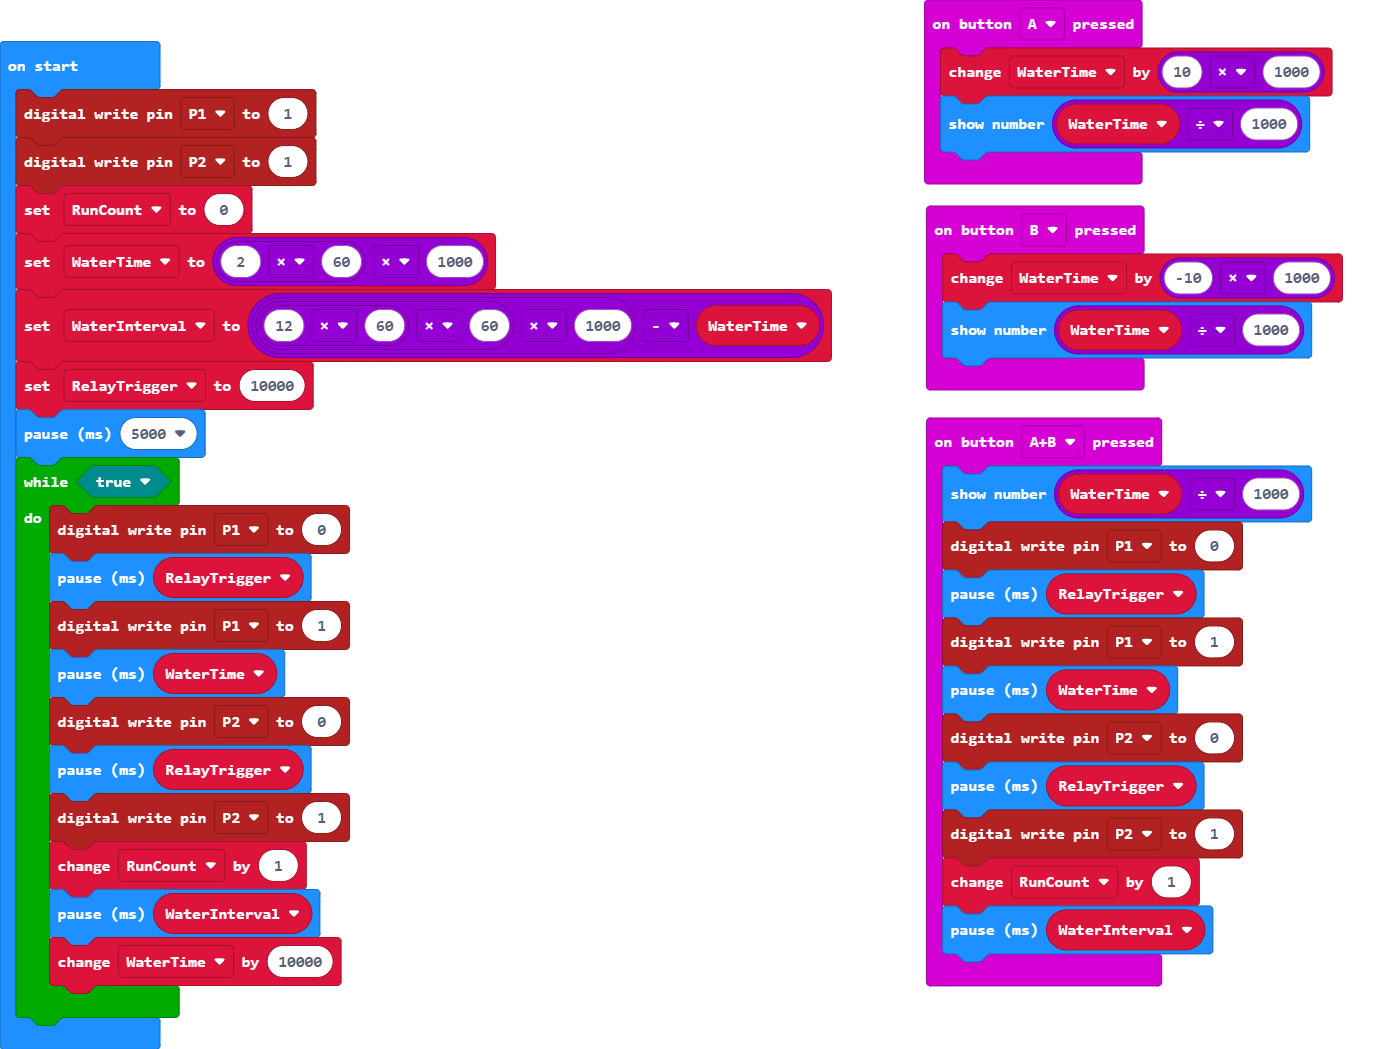
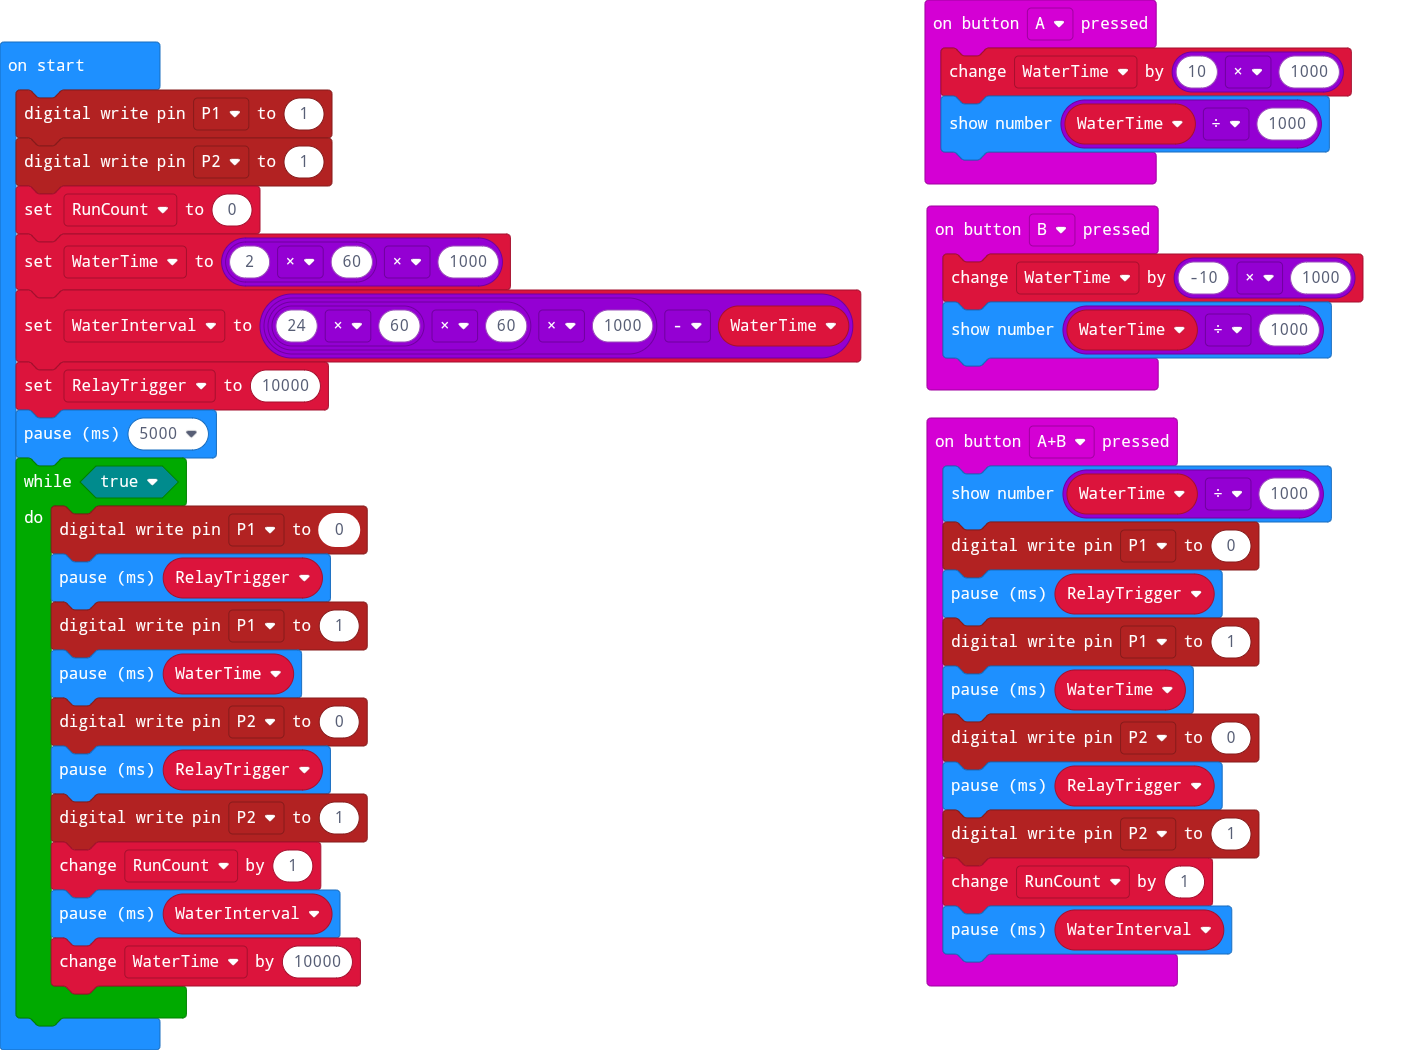
Update main.blocks, main.ts

Changed region(s): [[0.0, 0.0305, 0.6169, 0.9762], [0.6478, 0.0, 0.9562, 0.9457], [0.0925, 0.9762, 0.1234, 1.0]]

diff --git a/main.ts b/main.ts
@@ -25,7 +25,7 @@ pins.digitalWritePin(DigitalPin.P1, 1)
 pins.digitalWritePin(DigitalPin.P2, 1)
 let RunCount = 0
 WaterTime = 2 * 60 * 1000
-WaterInterval = 12 * 60 * 60 * 1000 - WaterTime
+WaterInterval = 24 * 60 * 60 * 1000 - WaterTime
 RelayTrigger = 10000
 basic.pause(5000)
 while (true) {
